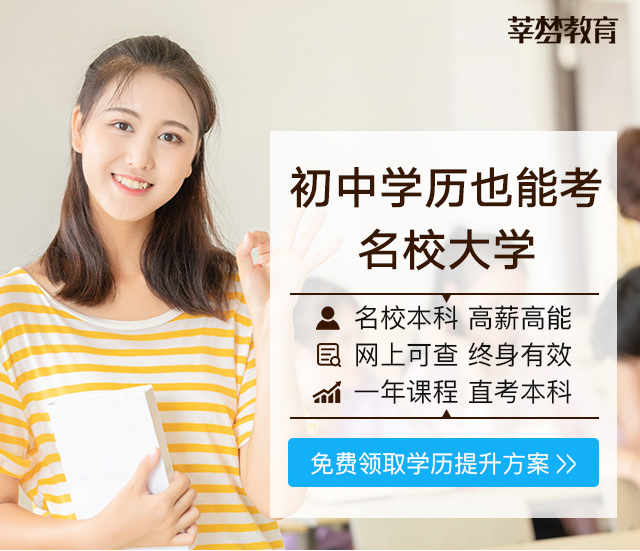
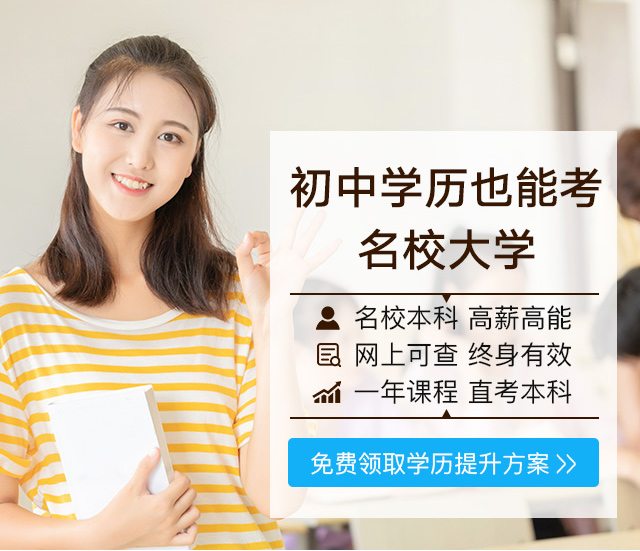
zikao

Changed region(s): [[0.7812, 0.0309, 0.9688, 0.0926]]

diff --git a/zikao.520xueli.com/zk_2/index.html b/zikao.520xueli.com/zk_2/index.html
@@ -12,19 +12,19 @@
 <div class="wrap">
 	<div class="fixed clearfix">
 	    <ul>
-	        <li><a class="swt" style="cursor:pointer">考证时间</a></li>
-	        <li><a class="swt" style="cursor:pointer">考证费用</a></li>
-	        <li><a class="swt" style="cursor:pointer">报考条件</a></li>
-	        <li><a class="swt" style="cursor:pointer">报考政策</a></li>
+	        <li><a class="swt" onclick="doyoo.util.openChat('g=10081562');return false;"  style="cursor:pointer">考证时间</a></li>
+	        <li><a class="swt" onclick="doyoo.util.openChat('g=10081562');return false;"  style="cursor:pointer">考证费用</a></li>
+	        <li><a class="swt" onclick="doyoo.util.openChat('g=10081562');return false;"  style="cursor:pointer">报考条件</a></li>
+	        <li><a class="swt" onclick="doyoo.util.openChat('g=10081562');return false;"  style="cursor:pointer">报考政策</a></li>
 	    </ul>
 	</div>
-	<div class="banner swt"><img src="image/banner.jpg" width="100%" class="swt"></div>
+	<div class="banner swt" onclick="doyoo.util.openChat('g=10081562');return false;"><img src="image/banner2.jpg" width="100%" class="swt" onclick="doyoo.util.openChat('g=10081562');return false;"></div>
 	<section>
 		<div class="cont_1_1">
 			<img src="image/tt02.png" width="100%">
 			<p id="cont_title">报考信息</p>
 		</div>
-		<div class="cont_1_2 swt">
+		<div class="cont_1_2 swt" onclick="doyoo.util.openChat('g=10081562');return false;">
 			<ul> 
 				<li>
 					<img src="image/xinxi_icon_1.png">
@@ -81,7 +81,7 @@
 			<div class="cont_2_1">
 				<p>本次报考接受以下学历形式</p>
 			</div>
-			<div class="cont_2_2 swt">
+			<div class="cont_2_2 swt" onclick="doyoo.util.openChat('g=10081562');return false;">
 				<ul> 
 					<li>
 						<p>低学历</p>
@@ -115,7 +115,7 @@
 					</li>
 				</ul>
 			</div>
-			<div class="cont_2_3 swt">
+			<div class="cont_2_3 swt" onclick="doyoo.util.openChat('g=10081562');return false;">
 				<p>速成VIP班型咨询>></p>
 			</div>
 		</div>
@@ -133,7 +133,7 @@
 	        <div class="swiper-wrapper">
 	            <div class="swiper-slide">
 	            	<img src="image/001.jpg" width="100%">
-	            	<div class="swiper_slide_box swt">
+	            	<div class="swiper_slide_box swt" onclick="doyoo.util.openChat('g=10081562');return false;">
 	            		<p><b>主考院校：</b><span>浙江工商大学</span></p>
 	            		<p><b>主考专业：</b><span>旅游管理</span></p>
 	            		<p id="swiper_slide_box_p3">如何<br>通过</p>
@@ -143,7 +143,7 @@
 	            </div>
 	            <div class="swiper-slide">
 	            	<img src="image/002.jpg" width="100%">
-	            	<div class="swiper_slide_box swt">
+	            	<div class="swiper_slide_box swt" onclick="doyoo.util.openChat('g=10081562');return false;">
 	            		<p><b>主考院校：</b><span>浙江工商大学</span></p>
 	            		<p><b>主考专业：</b><span>企业财务管理</span></p>
 	            		<p id="swiper_slide_box_p3">如何<br>通过</p>
@@ -153,7 +153,7 @@
 	            </div>
 	            <div class="swiper-slide" >
 	            	<img src="image/003.jpg" width="100%">
-	            	<div class="swiper_slide_box swt">
+	            	<div class="swiper_slide_box swt" onclick="doyoo.util.openChat('g=10081562');return false;">
 	            		<p><b>主考院校：</b><span>宁波工程学院</span></p>
 	            		<p><b>主考专业：</b><span>汽车营销与售<br>后技术服务</span></p>
 	            		<p id="swiper_slide_box_p3">如何<br>通过</p>
@@ -163,7 +163,7 @@
 	            </div>
 	            <div class="swiper-slide" >
 	            	<img src="image/004.jpg" width="100%">
-	            	<div class="swiper_slide_box swt">
+	            	<div class="swiper_slide_box swt" onclick="doyoo.util.openChat('g=10081562');return false;">
 	            		<p><b>主考院校：</b><span>浙江科技学院</span></p>
 	            		<p><b>主考专业：</b><span>视觉传达设计</span></p>
 	            		<p id="swiper_slide_box_p3">如何<br>通过</p>
@@ -173,7 +173,7 @@
 	            </div>
 	            <div class="swiper-slide" >
 	            	<img src="image/005.jpg" width="100%">
-	            	<div class="swiper_slide_box swt">
+	            	<div class="swiper_slide_box swt" onclick="doyoo.util.openChat('g=10081562');return false;">
 	            		<p><b>主考院校：</b><span>浙江工商大学</span></p>
 	            		<p><b>主考专业：</b><span>工商企业管理</span></p>
 	            		<p id="swiper_slide_box_p3">如何<br>通过</p>
@@ -185,11 +185,11 @@
 		</div><!--swiper-container-->
 	</section>
 	<section id="s3">
-		<div class="cont_4_1 swt">	
+		<div class="cont_4_1 swt" onclick="doyoo.util.openChat('g=10081562');return false;">	
 			<img src="image/tt02.png" width="100%">
 			<p id="cont_title">成人学历常见问题解答</p>
 		</div>
-		<div class="cont_4_2 swt">
+		<div class="cont_4_2 swt" onclick="doyoo.util.openChat('g=10081562');return false;">
 			<ul>
 				<li><p><span>1</span> &nbsp学费需要多少钱？</p></li>
 				<li><p><span>2</span> &nbsp成人学历报考条件是什么?</p></li>
@@ -204,7 +204,7 @@
 				<li><p><span>11</span> &nbsp含金量高不高？对工作有帮助吗？</p></li>
 			</ul>
 		</div>
-		<div class="cont_4_3 swt">
+		<div class="cont_4_3 swt" onclick="doyoo.util.openChat('g=10081562');return false;">
 			<ul>
 				<li><p>查看答案</p></li>
 				<li><p>查看答案</p></li>
@@ -219,7 +219,7 @@
 				<li><p>查看答案</p></li>
 			</ul>
 		</div>
-		<div class="cont_4_4 swt">
+		<div class="cont_4_4 swt" onclick="doyoo.util.openChat('g=10081562');return false;">
 				<p>查询更多学历提升问题</p>
 		</div>
 	</section>
@@ -234,7 +234,7 @@
 		<div class="cont_5_3">
 			<p>学习讨论 | 学友分享 | 贴吧社群</p>
 		</div>
-		<div class="cont_5_4 swt">
+		<div class="cont_5_4 swt" onclick="doyoo.util.openChat('g=10081562');return false;">
 				<p>在线寻找闺蜜学友吧</p>
 		</div>
 	</section>
@@ -266,7 +266,7 @@
 				<li><img src="image/1-9.jpg"></li>
 			</ul>
 		</div>
-		<div class="cont_6_6 swt">
+		<div class="cont_6_6 swt" onclick="doyoo.util.openChat('g=10081562');return false;">
 				<p>查询离你最近的分支机构</p>
 		</div>
 		<div class="cont_6_7">
@@ -338,7 +338,7 @@
 		<p>版权所有：北京中嘉未来教育科技有限公司</p>
 	</footer>
 	<section>
-		<div class="cont_8_1 swt">
+		<div class="cont_8_1 swt" onclick="doyoo.util.openChat('g=10081562');return false;">
 		  <div class="cont_8_1_b"><p>点我问问题</p></div>
 					<!-- Swiper -->
 		  <div class="swiper-container bot">
@@ -440,11 +440,6 @@ layui.use(['form'], function(){
      loop : true,
     });
 </script>
-<script language=javascript>
-$(".swt").click( function(){
-            openZoosUrl('chatwin');
-})
-</script>
 </body>
 </html>
- <script language="javascript" src="http://pkt.zoosnet.net/JS/LsJS.aspx?siteid=PKT21915463&float=1&lng=cn"></script>      
+<script type="text/javascript" charset="utf-8" src="http://lead.soperson.com/20001634/10101652.js"></script>      
